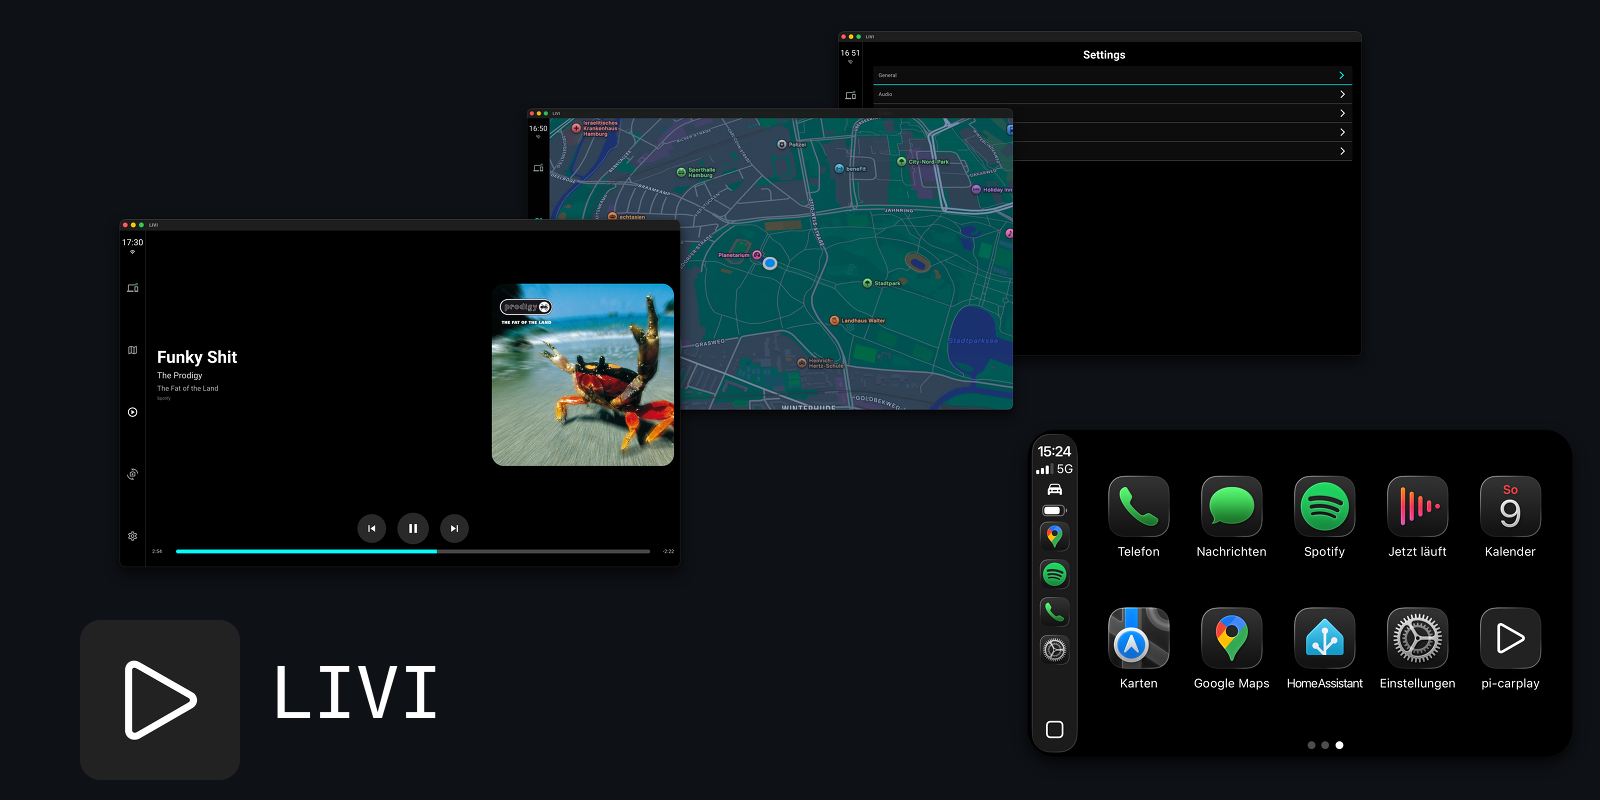
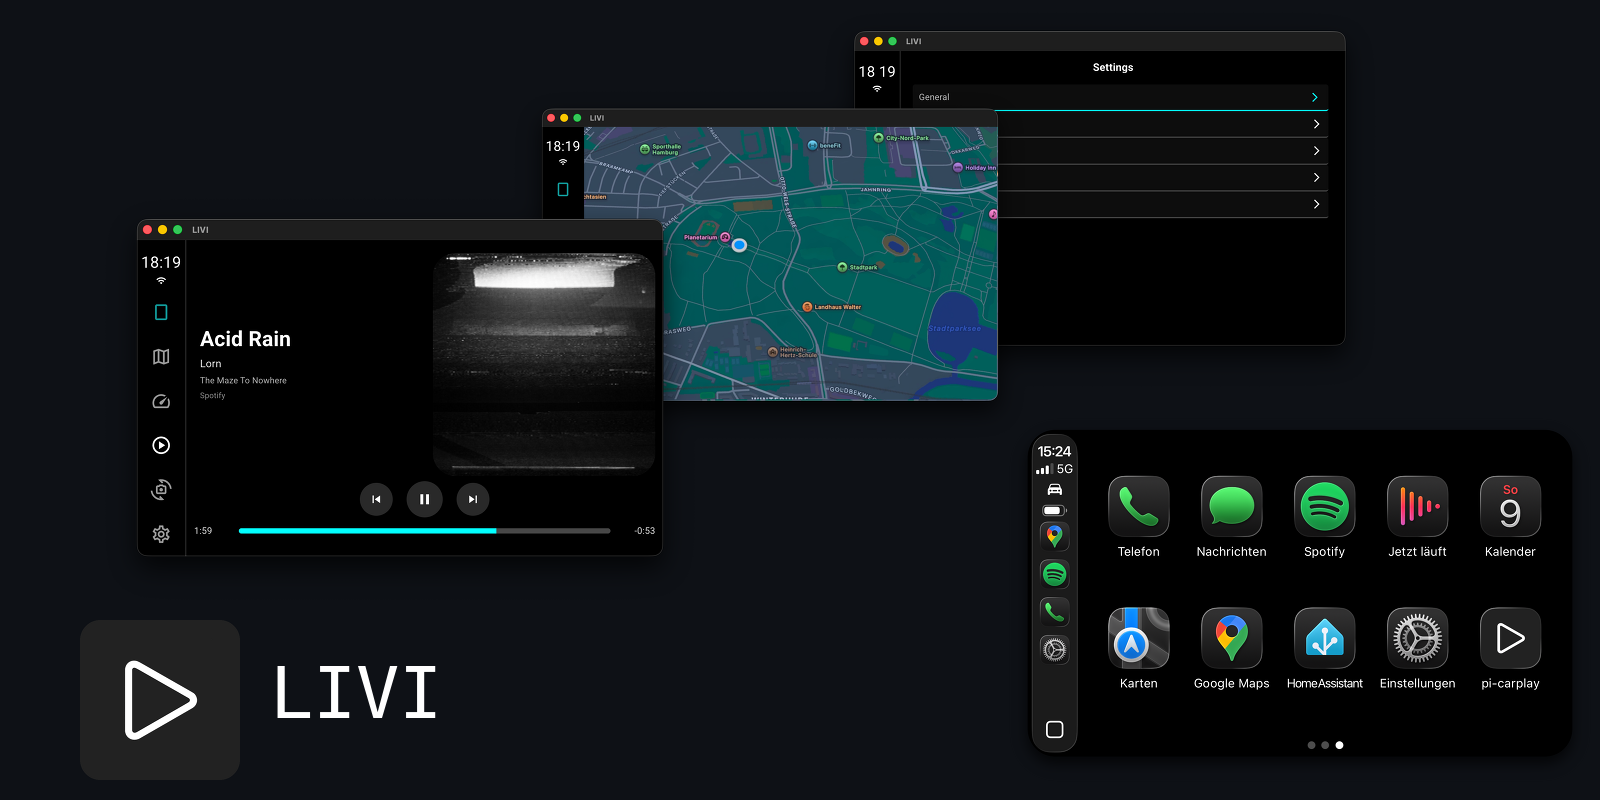
chore(docs): updated layout

diff --git a/docs/index.html b/docs/index.html
@@ -258,13 +258,7 @@
       </p>
 
       <p style="text-align: center">
-        <img src="images/carplay_no_phone.png" alt="No Phone" width="48%" align="top" />
-        &emsp;
         <img src="images/settings.png" alt="Settings" width="48%" align="top" />
-      </p>
-
-      <p style="text-align: center">
-        <img src="images/fft.png" alt="Info" width="48%" align="top" />
         &emsp;
         <img src="images/media.png" alt="Media" width="48%" align="top" />
       </p>
@@ -272,12 +266,7 @@
       <p style="text-align: center">
         <img src="images/maps.png" alt="Maps (Cluster Stream)" width="48%" align="top" />
         &emsp;
-        <img
-          src="images/maps_no_nav.png"
-          alt="Maps Fullscreen (Auto-hide Navigation)"
-          width="48%"
-          align="top"
-        />
+        <img src="images/telemetry.png" alt="Telemetry" width="48%" align="top" />
       </p>
 
       <h2>Documentation</h2>

diff --git a/README.md b/README.md
@@ -131,21 +131,15 @@ Listed limitations are firmware-level restrictions and cannot be fixed by the ap
 </p>
 
 <p align="center">
-  <img src="docs/images/carplay_no_phone.png" alt="No Phone" width="48%" align="top" />
+  <img src="docs/images/media.png" alt="Media" width="48%" align="top" />
   &emsp;
   <img src="docs/images/settings.png" alt="Settings" width="48%" align="top" />
 </p>
 
 <p align="center">
-  <img src="docs/images/fft.png" alt="Info" width="48%" align="top" />
-  &emsp;
-  <img src="docs/images/media.png" alt="Media" width="48%" align="top" />
-</p>
-
-<p align="center">
   <img src="docs/images/maps.png" alt="Maps (Cluster Stream)" width="48%" align="top" />
   &emsp;
-  <img src="docs/images/maps_no_nav.png" alt="Maps Fullscreen (Auto-hide Navigation)" width="48%" align="top" />
+  <img src="docs/images/telemetry.png" alt="Telemetry" width="48%" align="top" />
 </p>
 
 ## Credits
